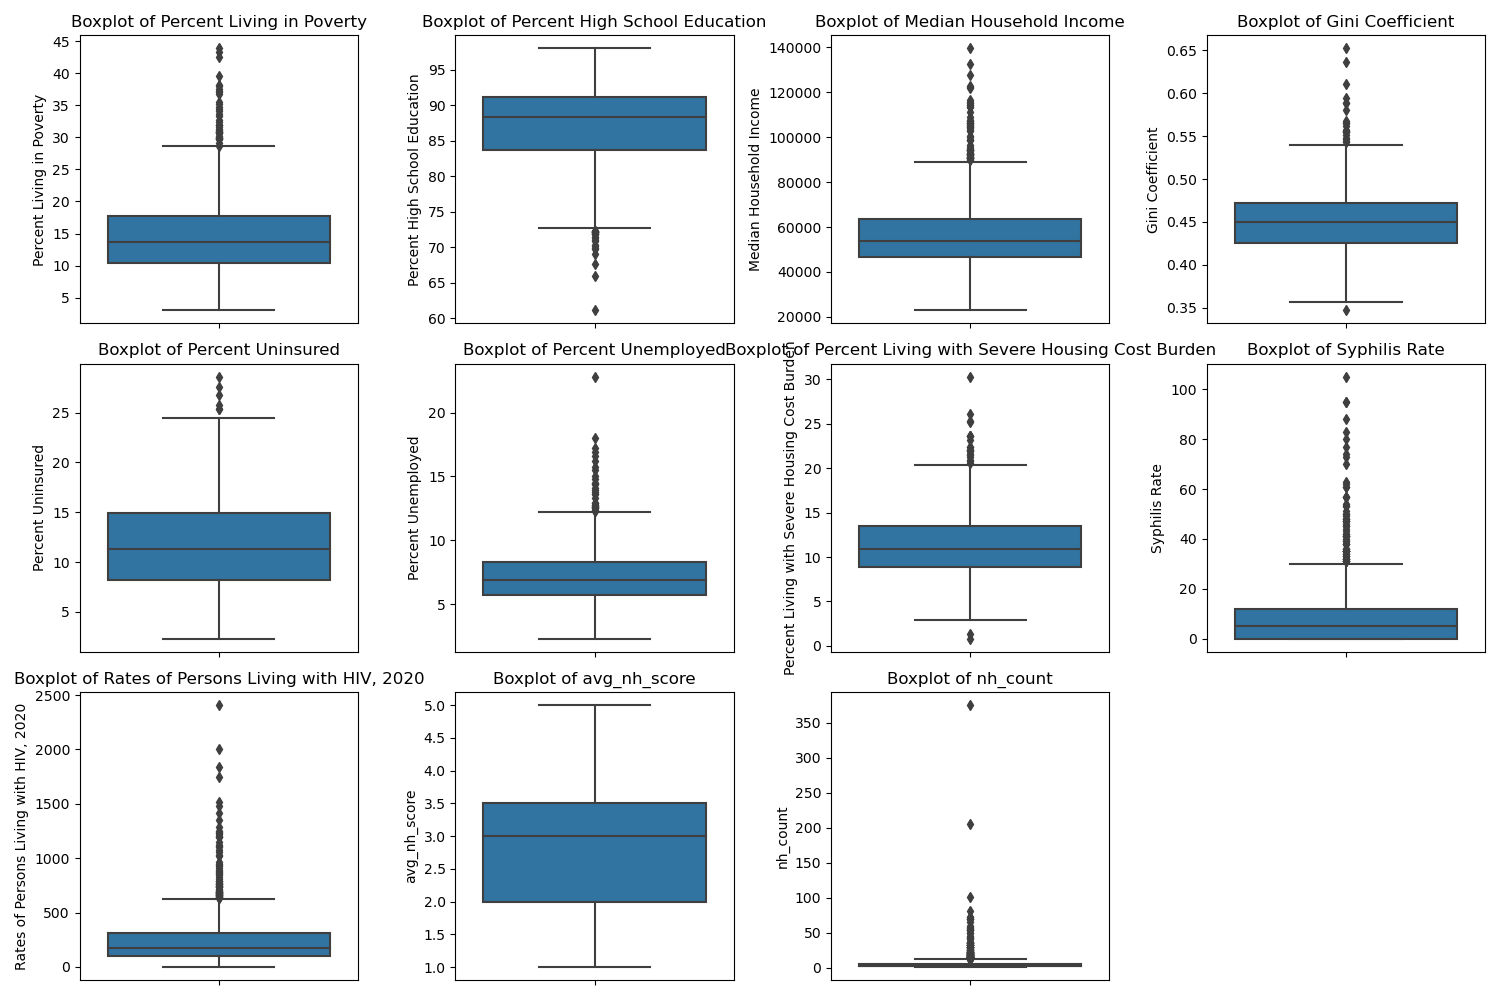
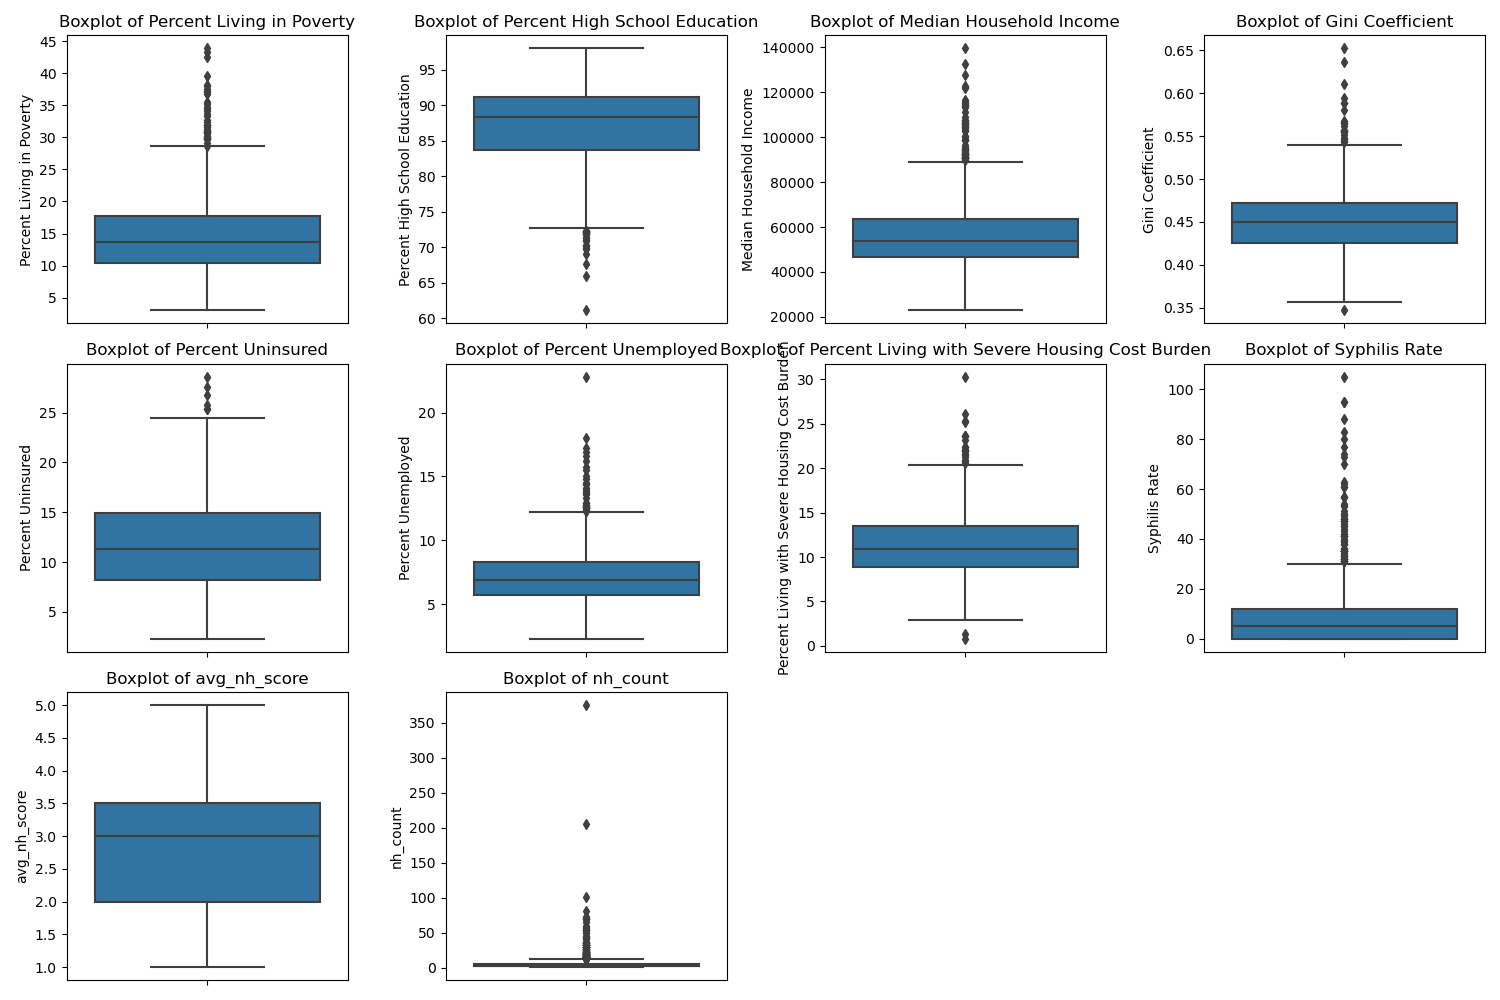
new day new models

diff --git a/src/model_dropMC_feat_select.py b/src/model_dropMC_feat_select.py
@@ -1,0 +1,61 @@
+from imports import *
+
+merged = pd.read_csv('data/group3data.csv')
+merged = merged[~merged['nh_count'].isin([101, 81, 205, 375, 65, 70, 73])]
+merged = merged.dropna()
+merged = merged[merged['Rates of Persons Living with HIV, 2020'] != 'undefined']
+merged['Rates of Persons Living with HIV, 2020'] = pd.to_numeric(merged['Rates of Persons Living with HIV, 2020'], errors='coerce')
+
+x = merged[['Percent Living in Poverty', 'Percent High School Education',
+            'Median Household Income', 'Gini Coefficient', 'Percent Uninsured',
+            'Percent Unemployed', 'Percent Living with Severe Housing Cost Burden',
+            'Syphilis Rate', 'avg_nh_score']]
+
+y = merged['Rates of Persons Living with HIV, 2020']
+
+
+# Forward Feature Selection
+feature_names = np.array(x.columns)
+ridge = RidgeCV()
+sfs_forward = SequentialFeatureSelector(ridge, n_features_to_select=1, direction="forward").fit(x, y)
+print('\nFirst Feature Selected by Forward Selection: \n\n',feature_names[sfs_forward.get_support()])
+sfs_forward = SequentialFeatureSelector(ridge, n_features_to_select=2, direction="forward").fit(x, y)
+print('\nFirst 2 Features Selected by Forward Selection: \n\n',feature_names[sfs_forward.get_support()])
+sfs_forward = SequentialFeatureSelector(ridge, n_features_to_select=3, direction="forward").fit(x, y)
+print('\nFirst 3 Features Selected by Forward Selection: \n\n',feature_names[sfs_forward.get_support()])
+sfs_forward = SequentialFeatureSelector(ridge, n_features_to_select=4, direction="forward").fit(x, y)
+print('\nFirst 4 Features Selected by Forward Selection: \n\n',feature_names[sfs_forward.get_support()])
+sfs_forward = SequentialFeatureSelector(ridge, n_features_to_select=5, direction="forward").fit(x, y)
+print('\nFirst 5 Features Selected by Forward Selection: \n\n',feature_names[sfs_forward.get_support()])
+sfs_forward = SequentialFeatureSelector(ridge, n_features_to_select=6, direction="forward").fit(x, y)
+print('\nFirst 6 Features Selected by Forward Selection: \n\n',feature_names[sfs_forward.get_support()])
+sfs_forward = SequentialFeatureSelector(ridge, n_features_to_select=7, direction="forward").fit(x, y)
+print('\nFirst 7 Features Selected by Forward Selection: \n\n',feature_names[sfs_forward.get_support()])
+sfs_forward = SequentialFeatureSelector(ridge, n_features_to_select=8, direction="forward").fit(x, y)
+print('\nFirst 8 Features Selected by Forward Selection: \n\n',feature_names[sfs_forward.get_support()])
+print('\n\nUnfortunately avg_nh_score is the 7th feature selected.\n')
+
+# Backward Feature Selection
+feature_names = np.array(x.columns)
+ridge = RidgeCV()
+sfs_forward = SequentialFeatureSelector(ridge, n_features_to_select=1, direction="backward").fit(x, y)
+print('\nFirst Feature Selected by Backward Selection: \n\n',feature_names[sfs_forward.get_support()])
+sfs_forward = SequentialFeatureSelector(ridge, n_features_to_select=2, direction="backward").fit(x, y)
+print('\nFirst 2 Features Selected by Backward Selection: \n\n',feature_names[sfs_forward.get_support()])
+sfs_forward = SequentialFeatureSelector(ridge, n_features_to_select=3, direction="backward").fit(x, y)
+print('\nFirst 3 Features Selected by Backward Selection: \n\n',feature_names[sfs_forward.get_support()])
+sfs_forward = SequentialFeatureSelector(ridge, n_features_to_select=4, direction="backward").fit(x, y)
+print('\nFirst 4 Features Selected by Backward Selection: \n\n',feature_names[sfs_forward.get_support()])
+sfs_forward = SequentialFeatureSelector(ridge, n_features_to_select=5, direction="backward").fit(x, y)
+print('\nFirst 5 Features Selected by Backward Selection: \n\n',feature_names[sfs_forward.get_support()])
+sfs_forward = SequentialFeatureSelector(ridge, n_features_to_select=6, direction="backward").fit(x, y)
+print('\nFirst 6 Features Selected by Backward Selection: \n\n',feature_names[sfs_forward.get_support()])
+sfs_forward = SequentialFeatureSelector(ridge, n_features_to_select=7, direction="backward").fit(x, y)
+print('\nFirst 7 Features Selected by Backward Selection: \n\n',feature_names[sfs_forward.get_support()])
+sfs_forward = SequentialFeatureSelector(ridge, n_features_to_select=8, direction="backward").fit(x, y)
+print('\nFirst 8 Features Selected by Backward Selection: \n\n',feature_names[sfs_forward.get_support()])
+print('\n\nUnfortunately avg_nh_score is the 7th feature selected. Again.')
+
+
+
+# Group 3 - TM

diff --git a/src/model_dropMC_feat_select55.py b/src/model_dropMC_feat_select55.py
@@ -1,0 +1,61 @@
+from imports import *
+
+merged = pd.read_csv('data/group3data.csv')
+merged = merged[~merged['nh_count'].isin([101, 81, 205, 375, 65, 70, 73])]
+merged = merged.dropna()
+merged = merged.rename(columns={'Rates of Persons, aged 55+, Living with HIV, 2020': 'hiv55+'})
+merged = merged[merged['hiv55+'] != 'undefined']
+
+x = merged[['Percent Living in Poverty', 'Percent High School Education',
+            'Median Household Income', 'Gini Coefficient', 'Percent Uninsured',
+            'Percent Unemployed', 'Percent Living with Severe Housing Cost Burden',
+            'Syphilis Rate', 'avg_nh_score']]
+
+y = merged['hiv55+']
+
+
+# Forward Feature Selection
+feature_names = np.array(x.columns)
+ridge = RidgeCV()
+sfs_forward = SequentialFeatureSelector(ridge, n_features_to_select=1, direction="forward").fit(x, y)
+print('\nFirst Feature Selected by Forward Selection: \n\n',feature_names[sfs_forward.get_support()])
+sfs_forward = SequentialFeatureSelector(ridge, n_features_to_select=2, direction="forward").fit(x, y)
+print('\nFirst 2 Features Selected by Forward Selection: \n\n',feature_names[sfs_forward.get_support()])
+sfs_forward = SequentialFeatureSelector(ridge, n_features_to_select=3, direction="forward").fit(x, y)
+print('\nFirst 3 Features Selected by Forward Selection: \n\n',feature_names[sfs_forward.get_support()])
+sfs_forward = SequentialFeatureSelector(ridge, n_features_to_select=4, direction="forward").fit(x, y)
+print('\nFirst 4 Features Selected by Forward Selection: \n\n',feature_names[sfs_forward.get_support()])
+sfs_forward = SequentialFeatureSelector(ridge, n_features_to_select=5, direction="forward").fit(x, y)
+print('\nFirst 5 Features Selected by Forward Selection: \n\n',feature_names[sfs_forward.get_support()])
+sfs_forward = SequentialFeatureSelector(ridge, n_features_to_select=6, direction="forward").fit(x, y)
+print('\nFirst 6 Features Selected by Forward Selection: \n\n',feature_names[sfs_forward.get_support()])
+sfs_forward = SequentialFeatureSelector(ridge, n_features_to_select=7, direction="forward").fit(x, y)
+print('\nFirst 7 Features Selected by Forward Selection: \n\n',feature_names[sfs_forward.get_support()])
+sfs_forward = SequentialFeatureSelector(ridge, n_features_to_select=8, direction="forward").fit(x, y)
+print('\nFirst 8 Features Selected by Forward Selection: \n\n',feature_names[sfs_forward.get_support()])
+print('\n\nUnfortunately avg_nh_score is the 7th feature selected.\n')
+
+# Backward Feature Selection
+feature_names = np.array(x.columns)
+ridge = RidgeCV()
+sfs_forward = SequentialFeatureSelector(ridge, n_features_to_select=1, direction="backward").fit(x, y)
+print('\nFirst Feature Selected by Backward Selection: \n\n',feature_names[sfs_forward.get_support()])
+sfs_forward = SequentialFeatureSelector(ridge, n_features_to_select=2, direction="backward").fit(x, y)
+print('\nFirst 2 Features Selected by Backward Selection: \n\n',feature_names[sfs_forward.get_support()])
+sfs_forward = SequentialFeatureSelector(ridge, n_features_to_select=3, direction="backward").fit(x, y)
+print('\nFirst 3 Features Selected by Backward Selection: \n\n',feature_names[sfs_forward.get_support()])
+sfs_forward = SequentialFeatureSelector(ridge, n_features_to_select=4, direction="backward").fit(x, y)
+print('\nFirst 4 Features Selected by Backward Selection: \n\n',feature_names[sfs_forward.get_support()])
+sfs_forward = SequentialFeatureSelector(ridge, n_features_to_select=5, direction="backward").fit(x, y)
+print('\nFirst 5 Features Selected by Backward Selection: \n\n',feature_names[sfs_forward.get_support()])
+sfs_forward = SequentialFeatureSelector(ridge, n_features_to_select=6, direction="backward").fit(x, y)
+print('\nFirst 6 Features Selected by Backward Selection: \n\n',feature_names[sfs_forward.get_support()])
+sfs_forward = SequentialFeatureSelector(ridge, n_features_to_select=7, direction="backward").fit(x, y)
+print('\nFirst 7 Features Selected by Backward Selection: \n\n',feature_names[sfs_forward.get_support()])
+sfs_forward = SequentialFeatureSelector(ridge, n_features_to_select=8, direction="backward").fit(x, y)
+print('\nFirst 8 Features Selected by Backward Selection: \n\n',feature_names[sfs_forward.get_support()])
+print('\n\nUnfortunately avg_nh_score is the 7th feature selected. Again.')
+
+
+
+# Group 3 - TM

diff --git a/src/model_dropMajorCities.py b/src/model_dropMajorCities.py
@@ -1,0 +1,47 @@
+from imports import *
+
+merged = pd.read_csv('data/group3data.csv')
+merged = merged[~merged['nh_count'].isin([101, 81, 205, 375, 65, 70, 73])]
+merged = merged.dropna()
+merged = merged[merged['Rates of Persons Living with HIV, 2020'] != 'undefined']
+merged['Rates of Persons Living with HIV, 2020'] = pd.to_numeric(merged['Rates of Persons Living with HIV, 2020'], errors='coerce')
+
+x = merged[['Percent Living in Poverty', 'Percent High School Education',
+            'Median Household Income', 'Gini Coefficient', 'Percent Uninsured',
+            'Percent Unemployed', 'Percent Living with Severe Housing Cost Burden',
+            'Syphilis Rate', 'avg_nh_score']]
+
+y = merged['Rates of Persons Living with HIV, 2020']
+
+lg = LinearRegression()
+pipeline = Pipeline(steps=[('m',lg)])
+
+n_scores = cross_val_score(pipeline, x, y, cv=KFold(n_splits=5, shuffle=True, random_state=1))
+
+
+print("\n\nLinear Regression - Full Population\n")
+
+results = sm.OLS(y,x, hasconst=True).fit()
+print(results.summary())  
+
+print('\n Cross-validated R^2:', np.mean(n_scores))
+
+lasso = LassoCV(cv=KFold(n_splits=10, shuffle=True, random_state=1))
+
+
+pipeline = Pipeline(steps=[('m',lasso)])
+
+
+pipeline.fit(x, y)
+
+
+lasso_coef = pd.Series(pipeline.named_steps['m'].coef_, index = x.columns)
+
+print("\nRanked features by Lasso:\n")
+print(lasso_coef.abs().sort_values(ascending=False))
+print('\n Unfortunately Average Nursing Home Score is not statistically significant\n along with being ranked last using Lasso feature selection.')
+print('\n Not overly surprising since this model looks at HIV rates for all ages,\n and nursing home score is likely only relevant to an older age group.\nRun make m55 to look at just an older age group.')
+
+
+
+# Group 3 - MS & TM

diff --git a/src/model_dropMajorCities55.py b/src/model_dropMajorCities55.py
@@ -1,0 +1,50 @@
+from imports import *
+
+merged = pd.read_csv('data/group3data.csv')
+merged = merged[~merged['nh_count'].isin([101, 81, 205, 375, 65, 70, 73])]
+merged = merged.dropna()
+merged = merged.rename(columns={'Rates of Persons, aged 55+, Living with HIV, 2020': 'hiv55+'})
+merged = merged[merged['hiv55+'] != 'undefined']
+
+
+x = merged[['Percent Living in Poverty', 'Percent High School Education',
+            'Median Household Income', 'Gini Coefficient', 'Percent Uninsured',
+            'Percent Unemployed', 'Percent Living with Severe Housing Cost Burden',
+            'Syphilis Rate','avg_nh_score']]
+
+y = merged['hiv55+']
+
+
+
+lg = LinearRegression()
+pipeline = Pipeline(steps=[('m',lg)])
+
+n_scores = cross_val_score(pipeline, x, y, cv=KFold(n_splits=5, shuffle=True, random_state=1))
+
+
+print("\n\nLinear Regression - Full Population\n")
+
+results = sm.OLS(y,x, hasconst=True).fit()
+print(results.summary())  
+
+print('\n Cross-validated R^2:', np.mean(n_scores))
+
+lasso = LassoCV(cv=KFold(n_splits=10, shuffle=True, random_state=1))
+
+
+pipeline = Pipeline(steps=[('m',lasso)])
+
+
+pipeline.fit(x, y)
+
+
+lasso_coef = pd.Series(pipeline.named_steps['m'].coef_, index = x.columns)
+
+print("\nRanked features by Lasso:\n")
+print(lasso_coef.abs().sort_values(ascending=False))
+print('\n Unfortunately Average Nursing Home Score is not statistically significant\n along with being ranked last using Lasso feature selection.')
+print('\n Not overly surprising since this model looks at HIV rates for all ages,\n and nursing home score is likely only relevant to an older age group.\nRun make m55 to look at just an older age group.')
+
+
+
+# Group 3 - MS & TM

diff --git a/src/boxplotsG3outlierdropNHcount.py b/src/boxplotsG3outlierdropNHcount.py
@@ -1,6 +1,7 @@
 from imports import pd, sns, plt
 
 merged = pd.read_csv('data/group3data.csv')
+merged = merged[~merged['nh_count'].isin([101, 81, 205, 375, 65, 70, 73])]
 
 cols_to_plot = ['Percent Living in Poverty', 'Percent High School Education',
                 'Median Household Income', 'Gini Coefficient', 'Percent Uninsured',
@@ -14,6 +15,6 @@ for idx, col in enumerate(cols_to_plot, start=1):
     sns.boxplot(y=col, data=merged)
     plt.title(f"Boxplot of {col}")
     plt.tight_layout()
-plt.savefig('figs/FeatureBox.png')
-plt.savefig('docs/figs/FeatureBox.png')
+plt.savefig('figs/FeatureBoxOutlierDrop.png')
+plt.savefig('docs/figs/FeatureBoxOutlierDrop.png')
 plt.show()

diff --git a/docs/results.md b/docs/results.md
@@ -82,13 +82,22 @@ A good sign.
 
 This shows the outliers in the features:
 
+Before cities drop:
+
 <img src="figs/FeatureBox.png" width="750px">
+
+After cities drop:
+
+<img src="figs/FeatureBoxOutlierDrop.png" width="750px">
+
+The distribution of nursing home counts looks better.
 
 This shows any correlation amongst the features:
 
 <img src="figs/heatmap.png" width="750px">
 
-
+Appears to be some interaction between the income related variables.
+May warrant further examination.
 
 ### Model
 
